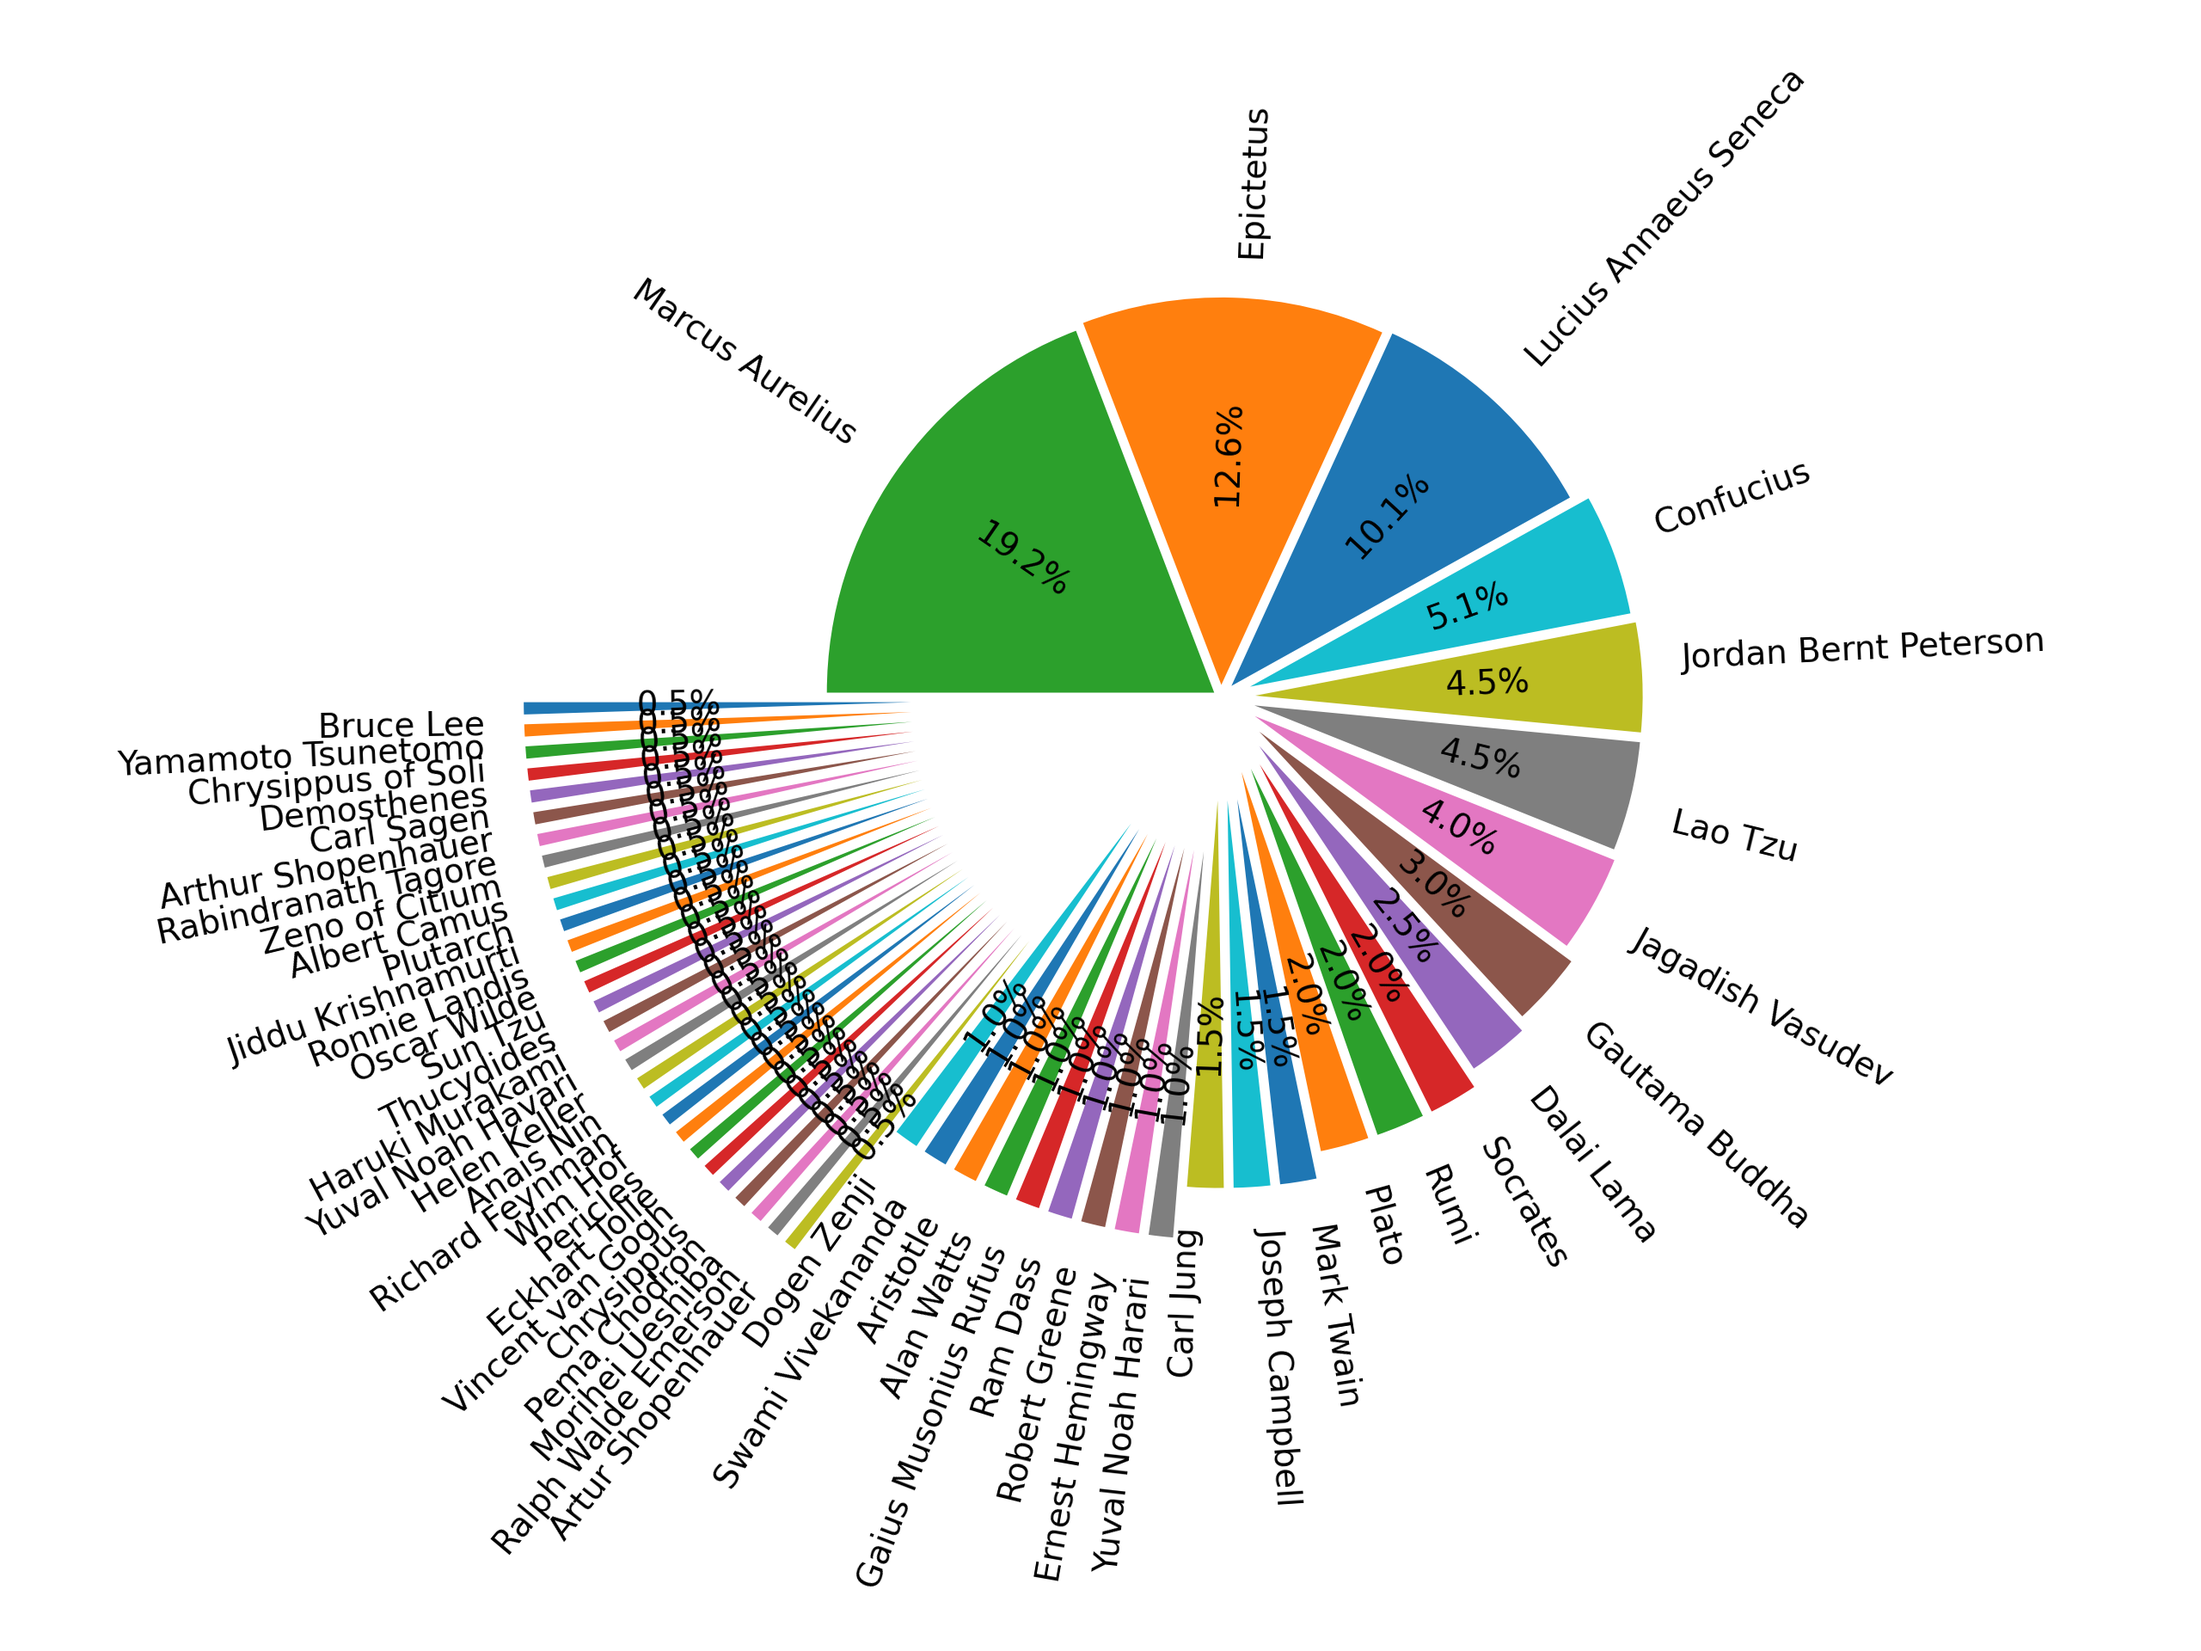
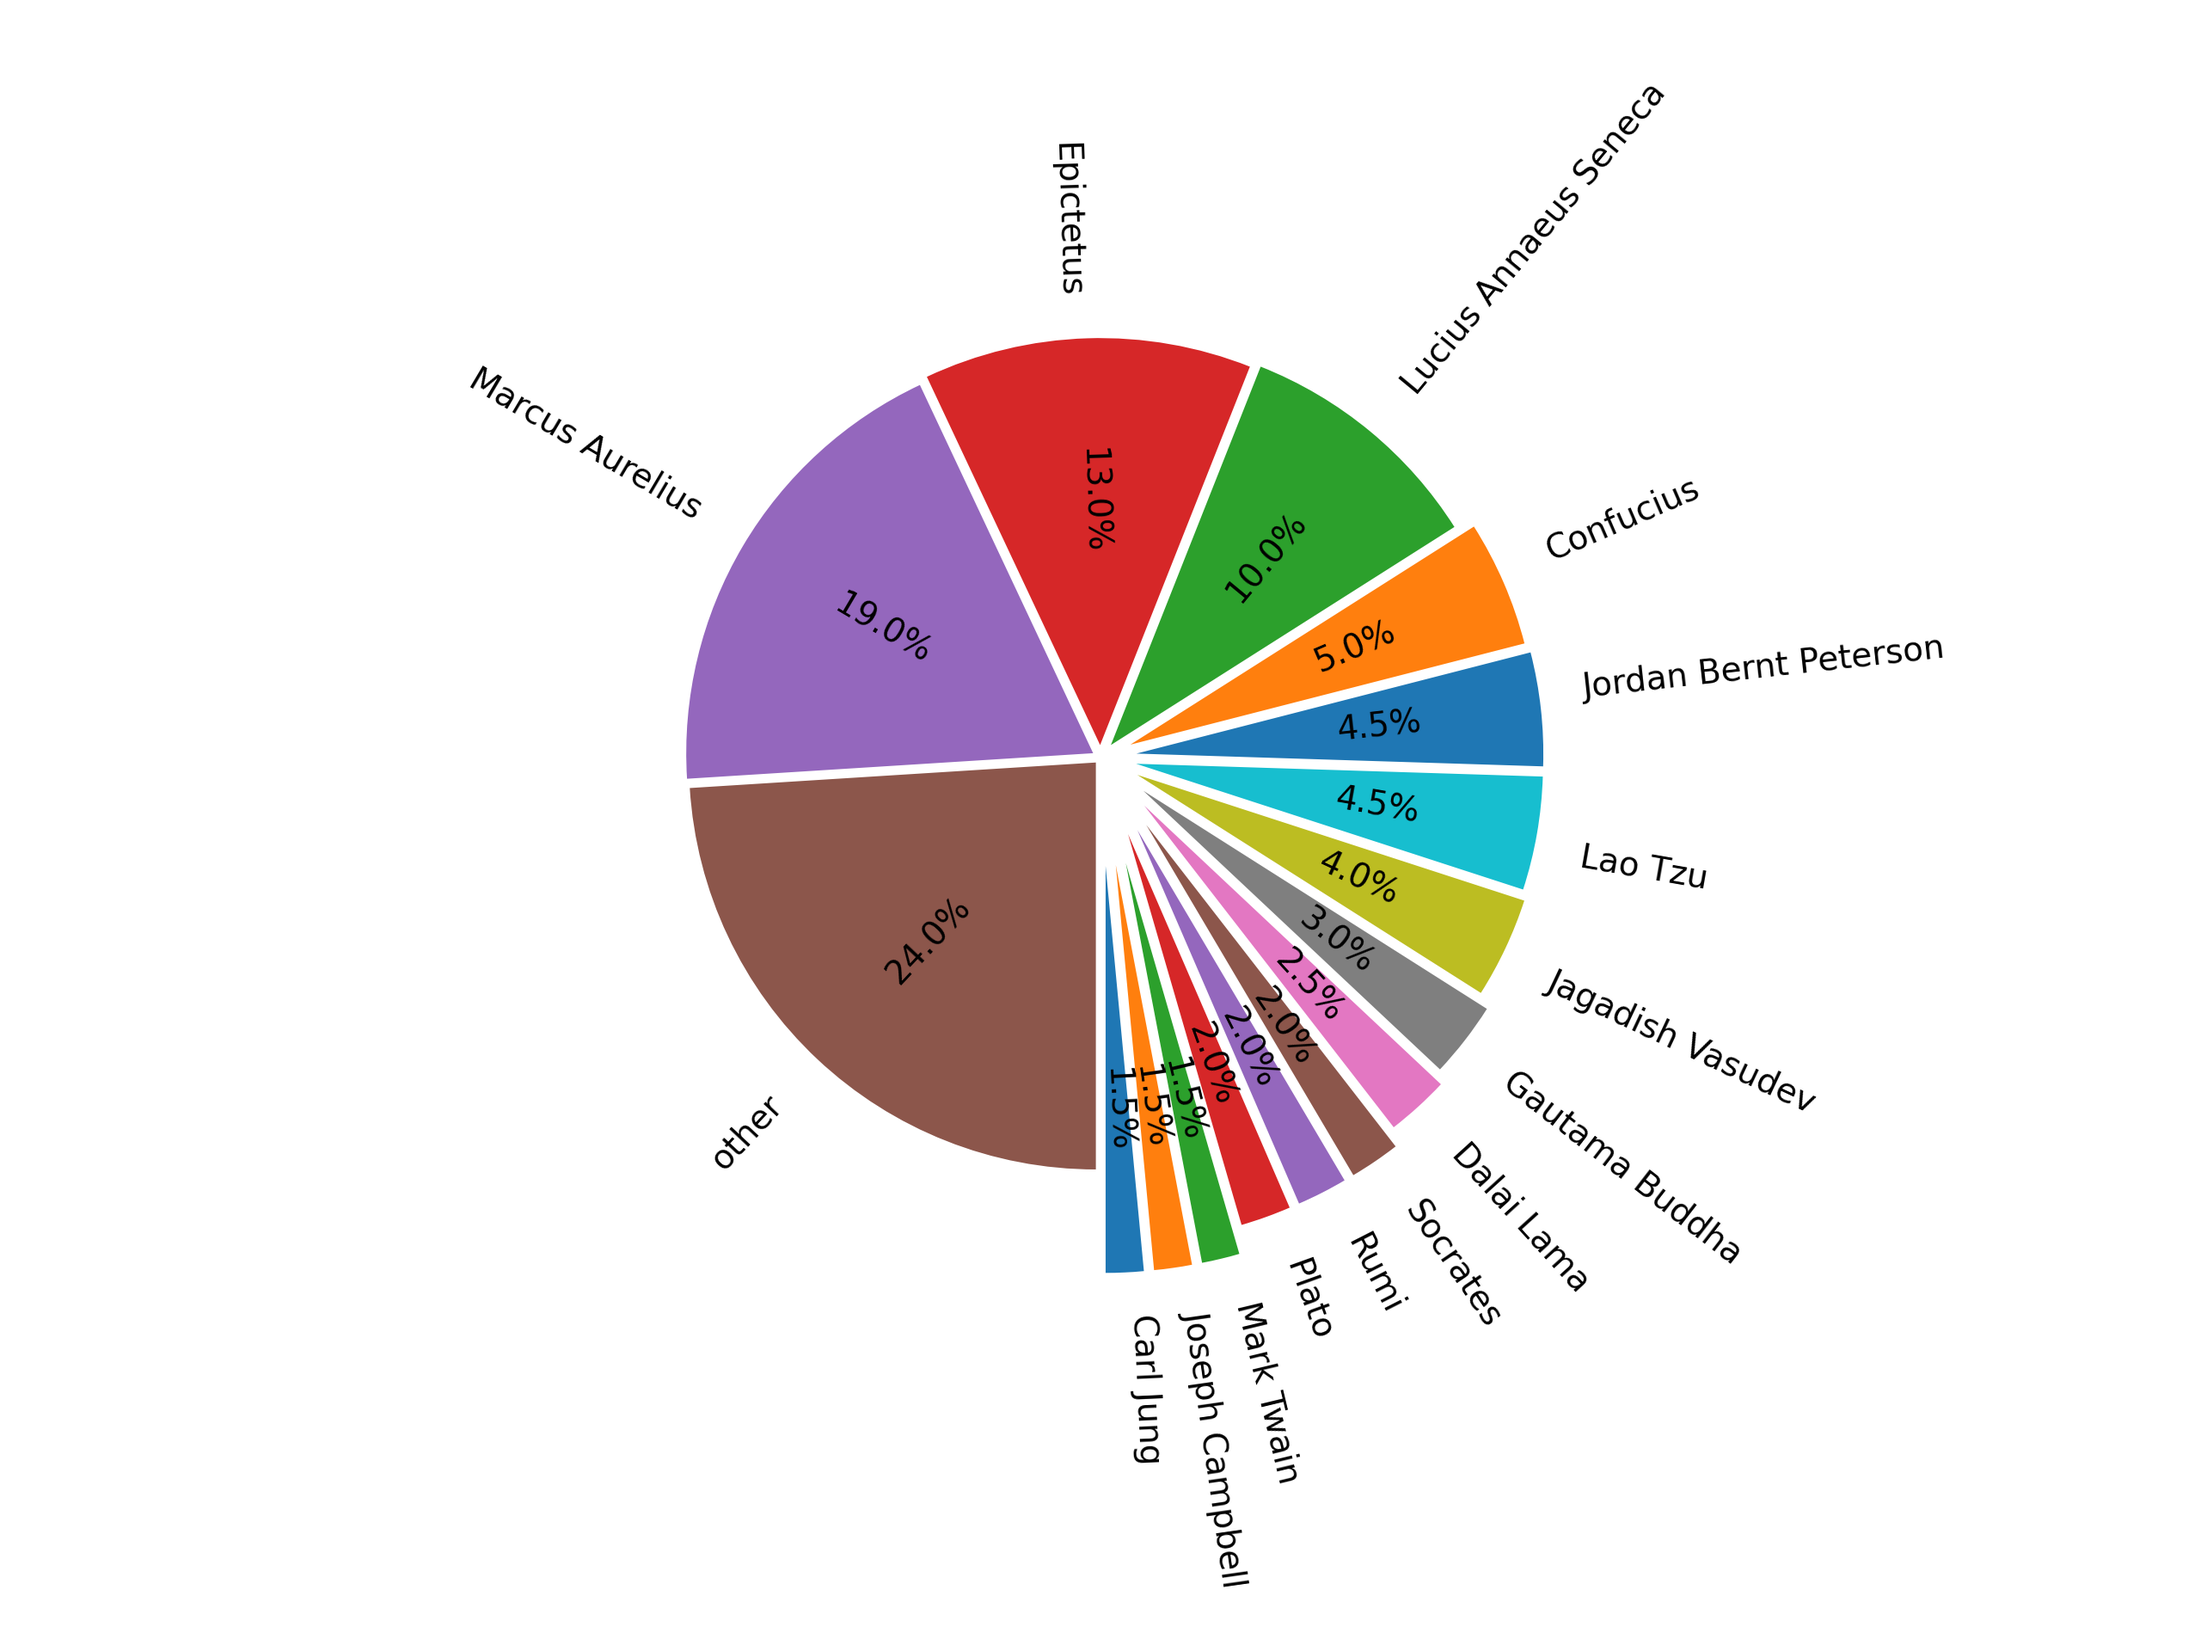
198->200; changed primary pie chart to include authors with less than 1% contribution as 'other'

diff --git a/scripts/statistics.py b/scripts/statistics.py
@@ -6,9 +6,13 @@
 import collections
 import os
 import matplotlib.pyplot as plt
+import pprint
+
+from numpy import arange
 from sys import path
 
 # user
+# TODO make em go from cli args
 DISP = False
 SAVE = True
 
@@ -26,31 +30,40 @@ authors = loader.load_quotes(get_quotes=False, get_authors=True)
 quotes = loader.load_quotes(get_quotes=True, get_authors=False)
 
 # %% unique appearances
-c = collections.Counter(authors)  # we count number of appearances of each author
-c = sorted(c.items(), key=lambda x: x[1])  # sort the dictionary so when displayed on...
+author_appearances = collections.Counter(authors)  # we count number of appearances of each author
+author_appearances = sorted(author_appearances.items(), key=lambda x: x[1])  # sort the dictionary so when displayed on...
 # ...pie chart it looks well-ordered
-c = dict(c)
-# %% Validity check
-c = collections.Counter(authors)  # we count number of appearances of each author
-c = sorted(c.items(), key=lambda x: x[1])  # sort the dictionary so when displayed on pie chart
-# it looks well-ordered
-c = dict(c)
+author_appearances = dict(author_appearances)
 # %% pie plot
 
-labels = c.keys()
-values = c.values()
-explode = [0.6 / appearances for appearances in values]  # the bigger the slice the closer it will be to the center
+labels = author_appearances.keys()
+values = author_appearances.values()
 
+# filter authors which appear in less than 1% of quotes
+most_common_authors=dict(author_appearances)
+most_common_authors['other']=0
+least_common_authors=dict(author_appearances)
+
+for (author, num_of_quotes) in author_appearances.items():
+    treshold=0.01*loader.get_size()
+    if(num_of_quotes<=treshold):# filter out authors with less than 1% input and append their input to 'other' key
+        most_common_authors.pop(author)
+        most_common_authors['other'] = most_common_authors['other']+num_of_quotes
+    else:
+        least_common_authors.pop(author)
+
+
+explode = [0.6 / appearances for appearances in most_common_authors.values()]  # the bigger the slice the closer it will be to the center
 f = plt.Figure(figsize=(48, 48))
 
 patches, labels, pct_texts = plt.pie(
-    values,
+    most_common_authors.values(),
     rotatelabels=True,
     radius=0.75,
     autopct='%0.1f%%',
     explode=explode,
-    startangle=-180,
-    labels=labels,
+    startangle=-90,
+    labels=most_common_authors.keys(),
     textprops={'fontsize': 7})
 # rotate the percentage label same way as author label
 for label, pct_text in zip(labels, pct_texts):

diff --git a/scripts/load_quotes.py b/scripts/load_quotes.py
@@ -5,7 +5,7 @@ import os
 from tqdm import tqdm
 
 
-def load_quotes(download=False, get_authors=False, get_quotes=True):
+def load_quotes(download=False, get_authors=False, get_quotes=True, get_size=False):
     # %% Download json's
     if download:
         repo = 'https://raw.githubusercontent.com/AR621/quote-omni-die/main/content/'
@@ -46,3 +46,15 @@ def load_quotes(download=False, get_authors=False, get_quotes=True):
         authors = [quote_json.get('author') for quote_json in quote_jsons]
         return authors
     # TODO  make em handle both quaries at once
+
+def get_size(download=False):
+    if download:
+        repo = 'https://raw.githubusercontent.com/AR621/quote-omni-die/main/content/'
+        size_file = 'size.json'
+        r = requests.get(repo + size_file)
+        print(r)
+        return json.loads(r.text).get('number_of_quotes')
+    else:
+        PATH = os.path.dirname(__file__)[:-7]  # since we don't want to save the jsons in /scripts
+        f = open(PATH + '/content/' + 'size' + ".json", 'r')
+        return json.load(f).get('number_of_quotes')
